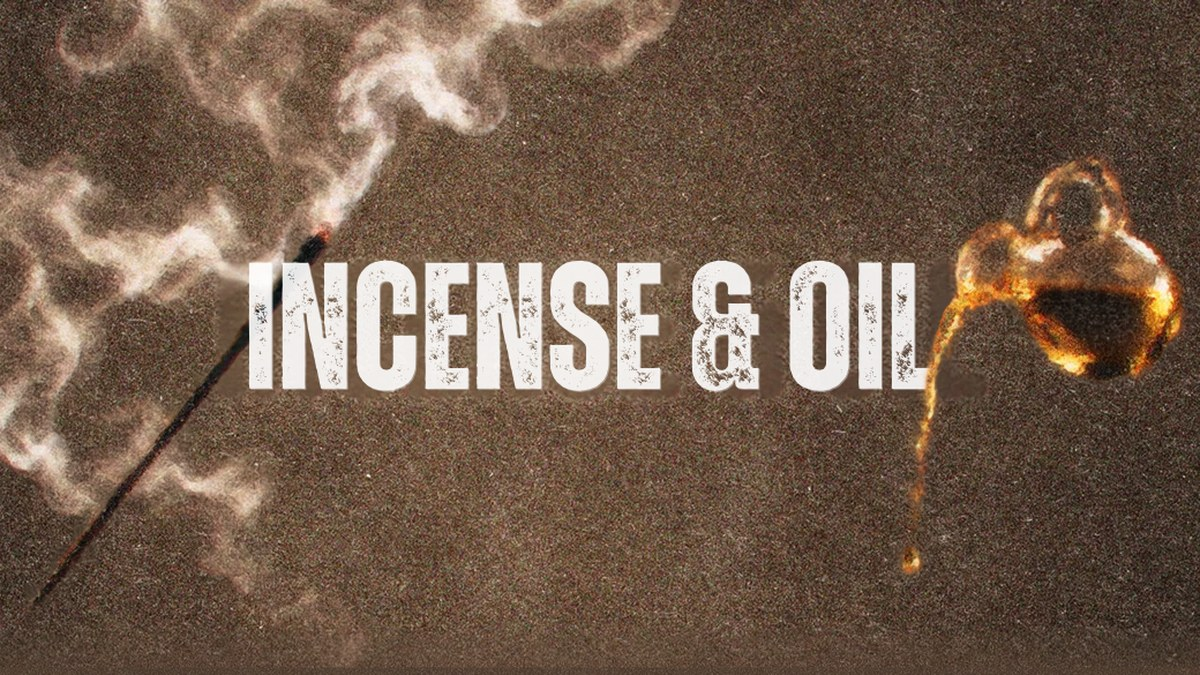
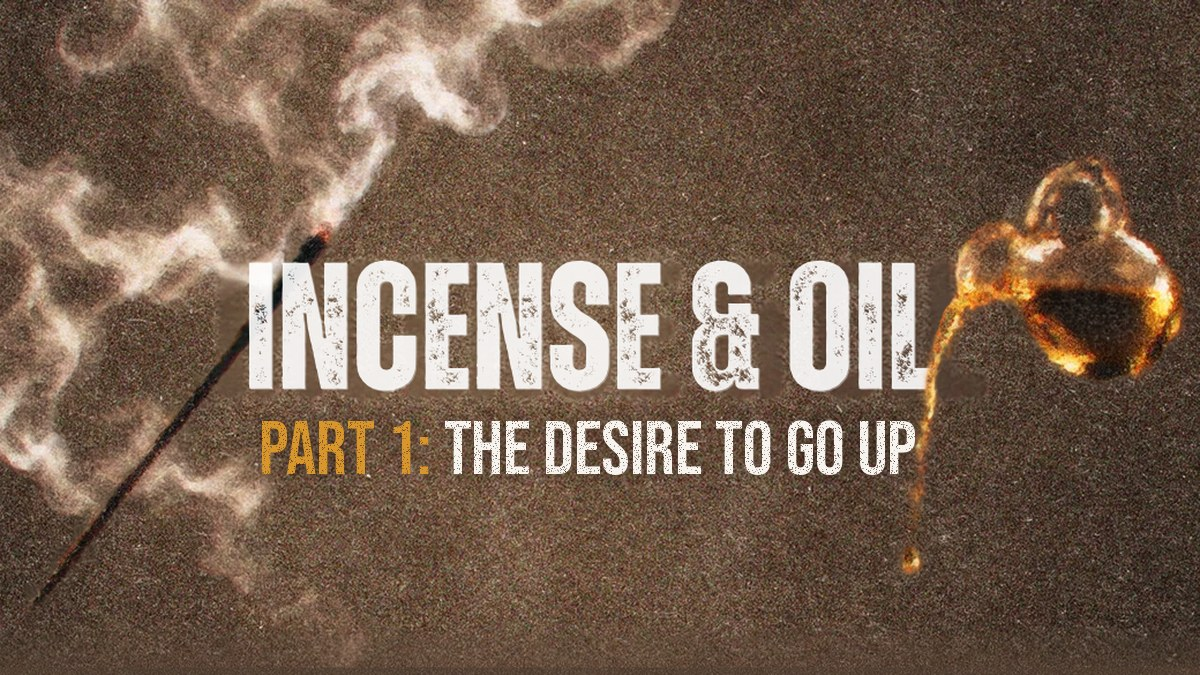
Blog cover: add Part 1 subtitle to The Desire to Go Up

Changed region(s): [[0.2158, 0.6222, 0.7708, 0.7156]]

diff --git a/posts/the-desire-to-go-up.html b/posts/the-desire-to-go-up.html
@@ -5,7 +5,7 @@ author: Hazen Stevens
 cover: /assets/img/blog/cover-the-desire-to-go-up.jpg
 description: In this first blog of Incense & Oil, Pastor Hazen opens Psalm 122 and the Songs of Ascent, the pilgrim songs Israel sang on the climb to Jerusalem. From a knock on the door before dawn to the gates of the city, he traces the whole journey in nine verses: a joyful invitation, unified praise, prayer with authority, and shalom that flows from our hearts to our homes to Atlanta, all for the sake of the house of the Lord.
 ---
-<h3><em>The temple was never the point. The presence of God was.</em></h3><p><em>A reflection on Psalm 122 · Incense &amp; Oil · Week 1</em></p>
+<h3><em>The temple was never the point. The presence of God was.</em></h3><p><em>Incense &amp; Oil · Part 1 · Psalm 122</em></p>
 
 <hr>
 

diff --git a/blog/the-desire-to-go-up.html b/blog/the-desire-to-go-up.html
@@ -133,7 +133,7 @@
   </div>
 
   <div class="wrap narrow post-body prose">
-<h3><em>The temple was never the point. The presence of God was.</em></h3><p><em>A reflection on Psalm 122 · Incense &amp; Oil · Week 1</em></p>
+<h3><em>The temple was never the point. The presence of God was.</em></h3><p><em>Incense &amp; Oil · Part 1 · Psalm 122</em></p>
 
 <hr>
 
